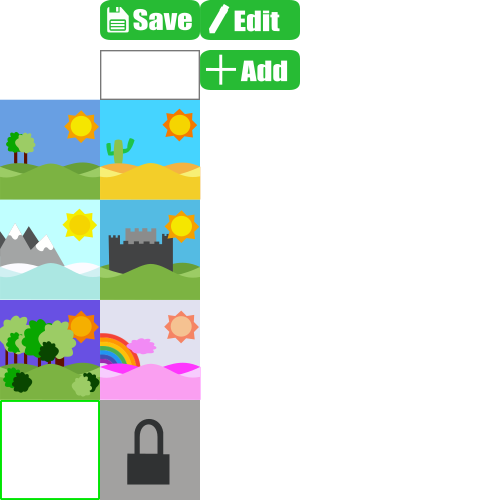
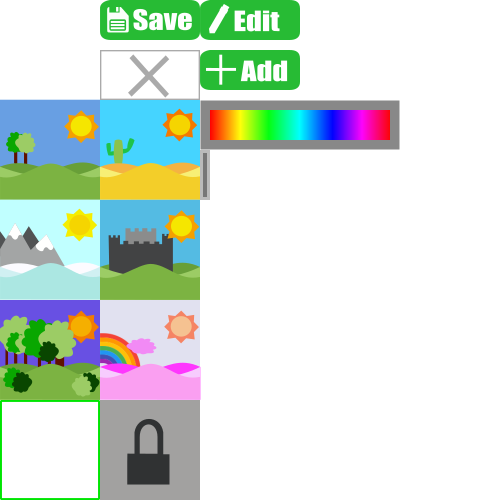
Map chargée dans éditeur + choix palette couleur

diff --git a/src/game/map/Editor.py b/src/game/map/Editor.py
@@ -35,6 +35,8 @@ class Editor():
         self.image["edit"] = self.image["sprite"].subsurface(200, 0, 100, 40)
         self.image["add"] = self.image["sprite"].subsurface(200, 50, 100, 40)
         self.image["empty"] = self.image["sprite"].subsurface(100, 50, 100, 50)
+        self.image["paletteColor"] = self.image["sprite"].subsurface(200, 100, 200, 50)
+        self.image["cursor"] = self.image["sprite"].subsurface(200, 150, 10, 50)
 
         self.rects = {"plus": self.image["plus"].get_rect(), "edit": self.image["edit"].get_rect().move((850, 700)),
         "menuMap": self.cadre[0].get_rect().move((500, 250)), "menuZone": self.cadre[0].get_rect().move((1120, 250)),
@@ -45,7 +47,8 @@ class Editor():
         "inputWidth": self.cadre[2].get_rect().move((780, 600)), "inputHeight": self.cadre[2].get_rect().move((970, 600)),
         "listUp": self.image["up"].get_rect().move((1080, 460)), "listDown": self.image["down"].get_rect().move((1080, 500)),
         "btnDown": self.image["down"].get_rect().move((1750, 975)), "btnUp": self.image["up"].get_rect().move((1750, 870)),
-        "btnRight": self.image["right"].get_rect().move((1815, 910)), "btnLeft": self.image["left"].get_rect().move((1710, 910))}
+        "btnRight": self.image["right"].get_rect().move((1815, 910)), "btnLeft": self.image["left"].get_rect().move((1710, 910)),
+        "paletteColor": self.image["paletteColor"].get_rect().move((200, 1000))}
 
         self.last = False
         self.home = True
@@ -59,7 +62,7 @@ class Editor():
         self.inputSelected = 0
         self.listSelected = 0
         self.camPos = {"x": 5, "y": 9}
-        self.current = {"element": "empty"}
+        self.current = {"element": ["empty", False]}
         self.cases = []
 
     def loop(self):
@@ -102,19 +105,19 @@ class Editor():
         self.rects["colorPlateforme"] = self.image["colorPlateforme"].get_rect().move((50, 230))
         self.rects["empty"] = self.image["empty"].get_rect().move((50, 70))
 
-        self.cases = [["empty"] * int(self.dataMap[self.current[0]][self.current[1]]["limit"][2] / 100) for i in range(int(self.dataMap[self.current[0]][self.current[1]]["limit"][3] / 50))]
+        self.cases = [[["empty", False]] * int(self.dataMap[self.current[0]][self.current[1]]["limit"][2] / 100) for i in range(int(self.dataMap[self.current[0]][self.current[1]]["limit"][3] / 50))]
 
         for i in self.dataMap[self.current[0]][self.current[1]]["plateforme"]:
             for c in range(0, int(self.dataMap[self.current[0]][self.current[1]]["plateforme"][i][2] / 100)):
-                self.cases[int(self.dataMap[self.current[0]][self.current[1]]["plateforme"][i][1]/ 50)][int(self.dataMap[self.current[0]][self.current[1]]["plateforme"][i][0]/100) + c] = "plateforme"
+                self.cases[int(self.dataMap[self.current[0]][self.current[1]]["plateforme"][i][1]/ 50)][int(self.dataMap[self.current[0]][self.current[1]]["plateforme"][i][0]/100) + c] = ["plateforme", False]
 
         for i in self.dataMap[self.current[0]][self.current[1]]["colorPlateforme"]:
             for c in range(0, int(self.dataMap[self.current[0]][self.current[1]]["colorPlateforme"][i][2] / 100)):
-                self.cases[int(self.dataMap[self.current[0]][self.current[1]]["colorPlateforme"][i][1]/ 50)][int(self.dataMap[self.current[0]][self.current[1]]["colorPlateforme"][i][0]/100) + c] = "colorPlateforme"
+                self.cases[int(self.dataMap[self.current[0]][self.current[1]]["colorPlateforme"][i][1]/ 50)][int(self.dataMap[self.current[0]][self.current[1]]["colorPlateforme"][i][0]/100) + c] = ["colorPlateforme", self.dataMap[self.current[0]][self.current[1]]["colorPlateforme"][i][4]]
 
         for i in self.dataMap[self.current[0]][self.current[1]]["piege"]:
             for c in range(0, int(self.dataMap[self.current[0]][self.current[1]]["piege"][i][2] / 100)):
-                self.cases[int(self.dataMap[self.current[0]][self.current[1]]["piege"][i][1]/ 50)][int(self.dataMap[self.current[0]][self.current[1]]["piege"][i][0]/100) + c] = "piege"
+                self.cases[int(self.dataMap[self.current[0]][self.current[1]]["piege"][i][1]/ 50)][int(self.dataMap[self.current[0]][self.current[1]]["piege"][i][0]/100) + c] = ["piege", False]
 
     def renderEditor(self):
         self.fenetre.blit(self.fond, (0,0))
@@ -124,8 +127,9 @@ class Editor():
         self.image["zone"].fill((210, 210,210))
         for i in range(0, len(self.cases)):
             for c in range(0, len(self.cases[i])):
-                self.image["zone"].blit(self.image[self.cases[i][c]], (c * 100, i*50))
-
+                if self.cases[i][c][0] == "colorPlateforme":
+                    pygame.draw.rect(self.image["zone"], getColor(self.cases[i][c][1]), (c * 100, i*50, 100, 50))
+                self.image["zone"].blit(self.image[self.cases[i][c][0]], (c * 100, i*50))
 
         self.fenetre.blit(self.image["background"], (self.camPos["x"] * -100, self.camPos["y"] * -100))
 
@@ -139,6 +143,8 @@ class Editor():
         self.fenetre.blit(self.image["plateforme"], (50, 150))
         self.fenetre.blit(self.image["colorPlateforme"], (50, 230))
         self.fenetre.blit(self.image["piege"], (50, 290))
+        self.fenetre.blit(self.image["paletteColor"], (200, 1000))
+        self.fenetre.blit(self.image["cursor"], (205 + (int(self.current["element"][1]) / 10), 1000 ))
 
         pygame.display.flip()
 
@@ -158,11 +164,14 @@ class Editor():
                 elif self.rects["btnLeft"].collidepoint(mouse) and self.camPos["x"] >= 0:
                     self.camPos["x"] -= 1
                 elif self.rects["plateforme"].collidepoint(mouse):
-                    self.current["element"] = "plateforme"
+                    self.current["element"][0] = "plateforme"
                 elif self.rects["colorPlateforme"].collidepoint(mouse):
-                    self.current["element"] = "colorPlateforme"
+                    self.current["element"][0] = "colorPlateforme"
                 elif self.rects["piege"].collidepoint(mouse):
-                    self.current["element"] = "piege"
+                    self.current["element"][0] = "piege"
+                elif self.rects["paletteColor"].collidepoint(mouse):
+                    mousePos = pygame.mouse.get_pos()
+                    self.current["element"][1] = (mousePos[0] - 210)*10
                 else:
                     mousePos = pygame.mouse.get_pos()
                     self.cases[int(((self.camPos["y"] * 100) + mousePos[1] - 1000) / 50)][int(((self.camPos["x"] * 100) + mousePos[0] - 1000) / 100)] = self.current["element"]

diff --git a/src/menu/StartMenu.py b/src/menu/StartMenu.py
@@ -72,7 +72,7 @@ class StartMenu():
                         return r
                 elif self.rect["edit"].collidepoint(mouse):
                     editeur = Editor(self.fenetre)
-                    self.music.stop()
+                    ##self.music.stop()
                     editeur.loop()
                 elif self.rect["mur"].collidepoint(mouse):
                     mur = Mur(self.fenetre)

diff --git a/src/main.py b/src/main.py
@@ -5,7 +5,7 @@ from menu.StartMenu import *
 
 class Main():
     pygame.init()
-    fenetre = pygame.display.set_mode((1920, 1080))
+    fenetre = pygame.display.set_mode((1920, 1080))## """, pygame.FULLSCREEN | pygame.DOUBLEBUF""" )
     game = Game(fenetre, "tower")
 
     r = "startmenu"

diff --git a/src/game/tools.py b/src/game/tools.py
@@ -22,6 +22,10 @@
         r = z - 1020
         g = 0
         b = 255
+    elif z >= 1530 or z <= 0:
+        r = 255
+        g = 0
+        b = 0
     else:
         r = 255
         g = 0
